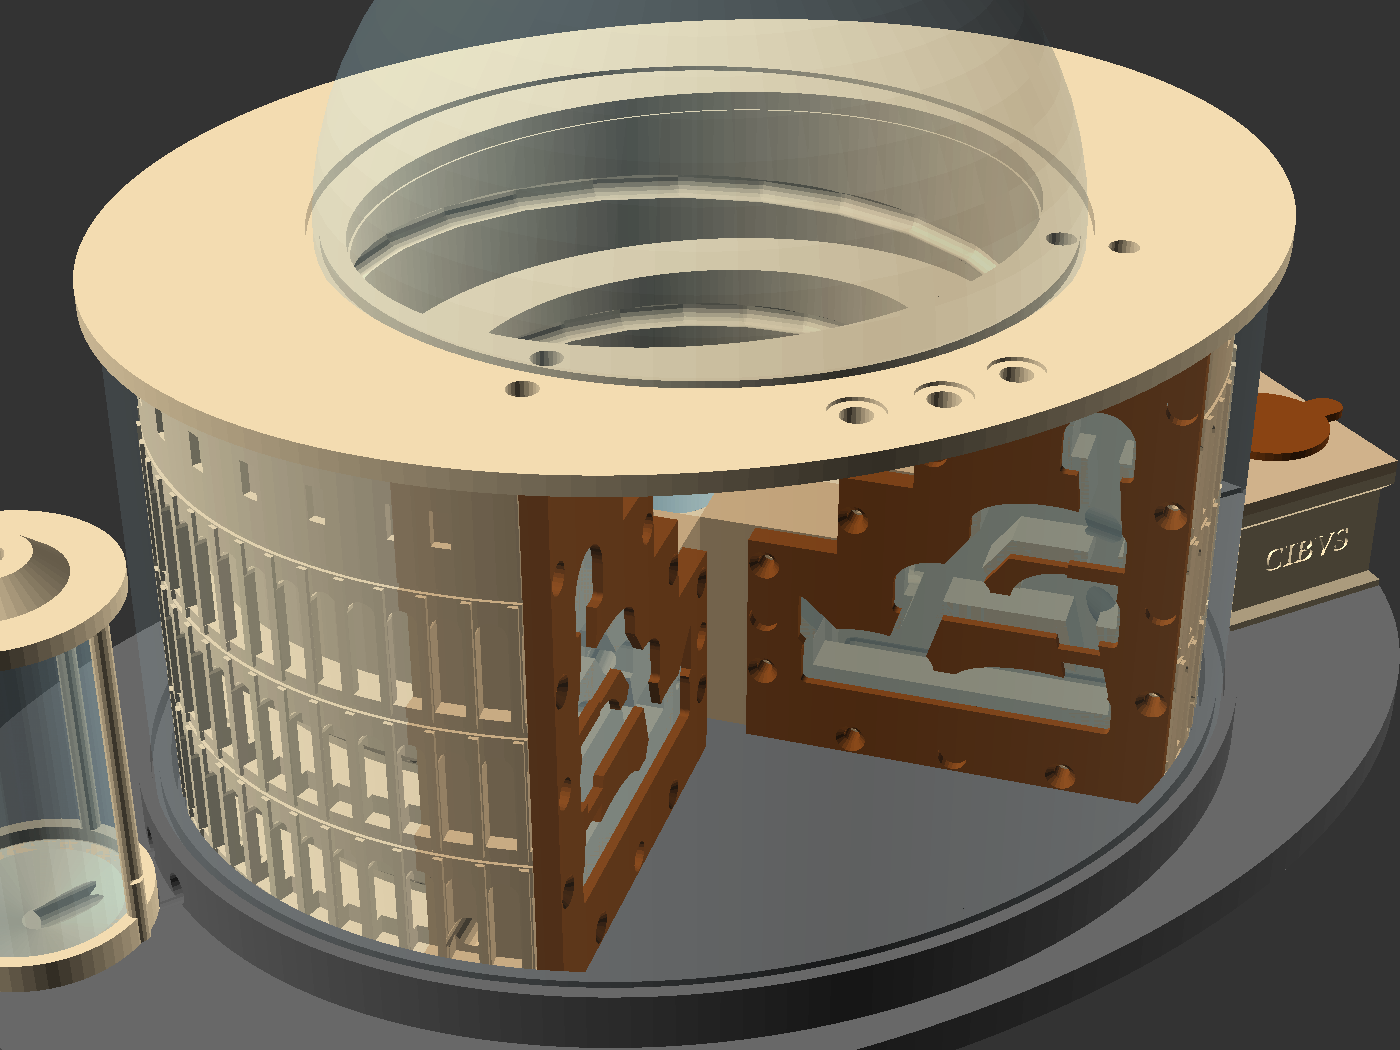
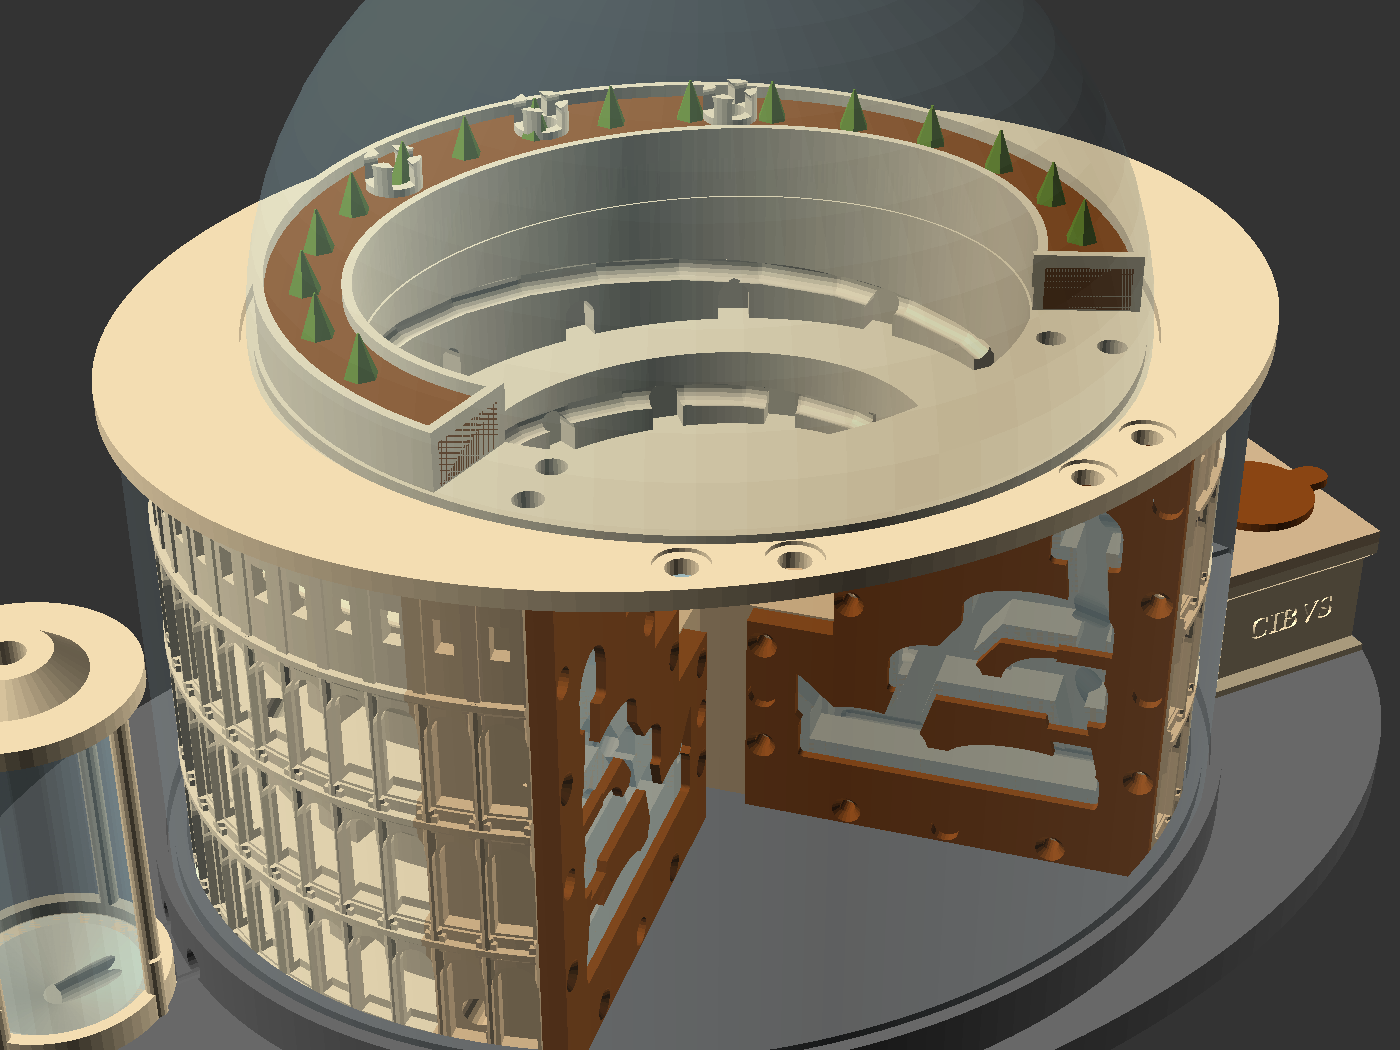
docs: Colosseum planter crown, exits and richer galleries in README; clean preview
Claude-Session: https://claude.ai/code/session_01QbCq1hX8kXMwbBSa8C8tyd

diff --git a/formicarium/README.md b/formicarium/README.md
@@ -7,7 +7,7 @@ Formicarium).
 
 | Model | Rozměr (Š × H × V) | Díly |
 |---|---|---|
-| **Koloseum v5** (Řím) | podstavec 344 × 218 mm, budova 224 × 186 × 118 mm (+ kopule Ø 150) | tělo, 2 hnízdní jádra (levé/pravé), věnec, podstavec (2 díly), 2 rámečky + 2 víčka, vodní věž + víčko, krmítko + víko + poklop, čepička kopule, zátky |
+| **Koloseum v5** (Řím) | podstavec 344 × 218 mm, budova 224 × 186 × 118 mm (+ kopule Ø 180) | tělo, 2 hnízdní jádra (levé/pravé), věnec, podstavec (2 díly), 2 rámečky + 2 víčka, vodní věž + víčko, krmítko + víko + poklop, čepička kopule, zátky |
 | **Parthenón** (Atény) | 236 × 172 × 122 mm | jádro, chrám (sloupy + kladí), střecha, rámeček, víčko, zátky |
 | **Šikmá věž** (Pisa) | 95 × 42 × 228 mm | jádro, věž dole, věž nahoře, zvonice, rámeček, víčko, zátky |
 
@@ -29,10 +29,15 @@ tisknou se **bez podpěr** a jsou ověřené jako uzavřená (watertight) těles
   dnu. Ve stěnách stupňů jsou zapuštěné spirálové chodbičky.
 - **Na dně arény je sklo Ø 24 mm** a pod ním **velká komůrka královny** (Ø 28 × 19 mm). Je
   vidět shora skrz arénu, má jen chodby do obou hnízd, a proto je klidná a tmavší.
-- **Galerie za oblouky** 1. a 2. patra vedou kolem celé stavby, jsou propojené šikmými
-  rampami a napojené na obě hnízda. Skrz sloupy je vidět, jak mravenci chodí dokola.
+- **Galerie za oblouky ve všech 3 patrech** + **chodba v atice** za okénky, kolem celé stavby,
+  propojené šikmými rampami a napojené na obě hnízda. Ve vnitřní stěně galerií jsou výklenky
+  a komůrky. Skrz 64 širokých oblouků (s polosloupy, hlavicemi a archivoltami) je vidět, jak
+  mravenci chodí dokola. Mezi patry jsou vystupující římsy se zkosením 45°, dole sokl.
+- **Záhonek nahoře:** věnec nese kolem jámy záhonek ve tvaru C (hlína ~10 mm + tráva/mech),
+  **3 výlezové věžičky** (šikmé chodby z atiky nahoru, s obloučky nad úrovní hlíny) a drážku,
+  do které se **nalepí kopule Ø 180 mm**. Nad výsečí záhonek není (větrání hnízd).
 - **Průhledný pás kolem celého Kolosea** (fólie 0,5 mm v drážce obruby podstavce a věnce)
-  uzavře výseč i oblouky. **Věnec s kopulí Ø 150 mm** kryje celý střed. Vše uvnitř pásu
+  uzavře výseč i oblouky. **Věnec se záhonkem a kopulí Ø 180 mm** kryje celý střed. Vše uvnitř pásu
   a kopule je uzavřená aréna (outworld).
 - **Vodní věž** vlevo (spojené nádoby, 2 hadičky do sádry obou hnízd) a **krmítko CIBVS
   s poklopem** vpravo jsou **venku**. Krmítko je spojené krátkou hadičkou skrz obrubu.
@@ -126,7 +131,8 @@ PETG: 240/85 °C (profil Prusament PETG), na texturovaný plát nebo s lepidlem/
 - Neodymové magnety **6 × 2 mm**: Koloseum 20, Parthenón 8, Pisa 4 (půlka do rámečku, půlka do víčka)
 - Nerezová síťka **0,2 mm** (kolečka Ø 10 mm): Koloseum 8 (+ 1 kolečko Ø 26 mm do čepičky kopule), Parthenón 2, Pisa 2
 - **Jen Koloseum:**
-  - průhledná **dělitelná plastová koule Ø 150 mm** (nebo akrylová polokoule Ø 150) – půlka
+  - průhledná **dělitelná plastová koule Ø 180 mm** (nebo akrylová polokoule Ø 180) – půlka
+  - zahradní substrát bez hnojiva (nebo písek + rašelina 1:1), semínka trávy / kousky mechu
   - **plexi trubka 40/34 mm, délka 70 mm** (vodní věž)
   - **průhledná fólie PET/PETG 0,5 mm, pás 692 × 111 mm** (pás kolem celé stavby, `dxf/colosseum_band.dxf`)
   - silikonová hadička **8 × 12 mm, cca 5 cm** (krmítko → obruba)
@@ -179,8 +185,10 @@ PETG: 240/85 °C (profil Prusament PETG), na texturovaný plát nebo s lepidlem/
    na plochu).
 8. **Pás:** fólii obtoč kolem stavby do drážky obruby (konce přes sebe 12 mm, slepit páskou/
    silikonem), nasaď **věnec** (pás zapadne do jeho spodní drážky), do věnce vlep síťky.
-9. **Kopule:** do půlky koule vyvrtej Ø 30 mm, nalep kroužek čepičky, zátku se síťkou,
-   kopuli posaď do drážky věnce. Do arény a na stupně dej trochu písku a mechu, vodu
+9. **Záhonek:** nasyp do záhonku ve věnci ~10 mm vlhké hlíny (věžičky musí zůstat nad ní),
+   zasej trávu nebo polož mech. Zalévej rozprašovačem jen lehce.
+10. **Kopule:** do půlky koule vyvrtej Ø 30 mm, nalep kroužek čepičky a zátku se síťkou.
+   Kopuli **nalep** do drážky věnce akvarijním silikonem (krmí se přes čepičku a krmítko). Do arény a na stupně dej trochu písku a mechu, vodu
    (zkumavka s vatou).
 
 ### Stěhování kolonie
